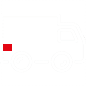
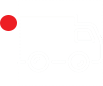
//

Changed region(s): [[0.0, 0.1628, 0.186, 0.3721], [0.0233, 0.5116, 0.1395, 0.6047]]

diff --git a/index.html b/index.html
@@ -114,7 +114,7 @@
                                   en savoir plus   <br><i class="fa fa-plus" aria-hidden="true"></i><br>sur nos canapés  et sofas
                               </a>
                           </div>
-                          <div class="product__container__ color_2">
+                          <div id ="container_2"class="product__container__ color_2 after_effects">
                               <p class="title_product">
                                   Tables
                               </p>
@@ -127,7 +127,7 @@
                                   en savoir plus   <br><i class="fa fa-plus" aria-hidden="true"></i><br>sur nos canapés  et sofas
                               </a>
                           </div>
-                          <div class="product__container__">
+                          <div id ="container_3" class="product__container__ after_effects">
                               <p class="title_product">
                                   Canapés & Sofas
                               </p>
@@ -140,7 +140,7 @@
                                   en savoir plus   <br><i class="fa fa-plus" aria-hidden="true"></i><br>sur nos canapés  et sofas
                               </a>
                           </div>
-                          <div class="product__container__ color_2">
+                          <div id ="container_4" class="product__container__ color_2 after_effects">
                               <p class="title_product">
                                   Canapés & Sofas
                               </p>
@@ -153,7 +153,7 @@
                                   en savoir plus   <br><i class="fa fa-plus" aria-hidden="true"></i><br>sur nos canapés  et sofas
                               </a>
                           </div>
-                          <div class="product__container__">
+                          <div id ="container_5" class="product__container__ after_effects">
                               <p class="title_product">
                                   Canapés & Sofas
                               </p>

diff --git a/Scripts/main.js b/Scripts/main.js
@@ -50,14 +50,15 @@ $(window).scroll(function() {
   var currentScrolling = left;
   res[res.length]= currentScrolling;
   if(res[res.length-2]>res[res.length-1]){
-    $("#camion").attr("href", "Images/camion_recul.png");
-    console.log("En train d'avancer");
-  }
-  else{
-    $("#camion").attr("href", "Images/camion.png");
+    $("#camion").attr("src", "Images/camion_recul.png");
     console.log("En train de reculer");
   }
+  else{
+    $("#camion").attr("src", "Images/camion.png");
+    console.log("En train d'avancer");
+  }
 });
+
 /**************** PANORAMA ***************/
 var
 $target  = $(".panorama").first(),
@@ -91,6 +92,59 @@ $(document).ready(function(){
 });
 
 /**************** PANORAMA ***************/
+  $('.after_effects').hide()
+$(window).scroll(function(){
+    var effect = document.body.scrollTop;
+    console.log(effect);
+    if(effect > 1200){
+      $("#container_2").show();
+    }
+    else{
+
+    }
+    if(effect > 1600){
+      $("#container_3").show();
+    }
+    else{
+
+    }
+    if(effect > 1800){
+      $("#container_4").show();
+    }
+    else{
+
+    }
+    if(effect > 2200){
+      $("#container_5").show();
+    }
+    else{
+
+    }
+    if(effect < 1200){
+      $("#container_2").hide().addClass('transition-1');
+    }
+    else{
+
+    }
+    if(effect < 1600){
+      $("#container_3").hide().addClass('transition-1');
+    }
+    else{
+
+    }
+    if(effect < 1800){
+      $("#container_4").hide().addClass('transition-1');
+    }
+    else{
+
+    }
+    if(effect < 2200){
+      $("#container_5").hide().addClass('transition-1');
+    }
+    else{
+
+    }
+});
 
 /*************** FADE IN *****************/
 

diff --git a/Style/style.css b/Style/style.css
@@ -248,7 +248,6 @@ a:hover,a:visited{
     clear: both;
 }
 .product__container__{
-    min-height: 100vh;
     background-color: #ad8e81;
     border-right: 2px solid #FFFFFF;
     -moz-transform-origin: 0 0;
@@ -262,8 +261,7 @@ a:hover,a:visited{
     padding: 80px 20px;
     max-width: 400px;
     float: left;
-    position: relative;
-    z-index: 20;
+    overflow: hidden;
 }
 .color_2{
     background-color: #c6b19a;
@@ -314,7 +312,6 @@ a:hover,a:visited{
 .cam_container img{
     position: absolute;
     left:0;
-    z-index: 3;
 }
 @keyframes camion {
     0% {
@@ -489,6 +486,7 @@ button {
     color: white;
 }
 .four {
+  overflow: hidden;
 }
 @import "compass/css3";
 
